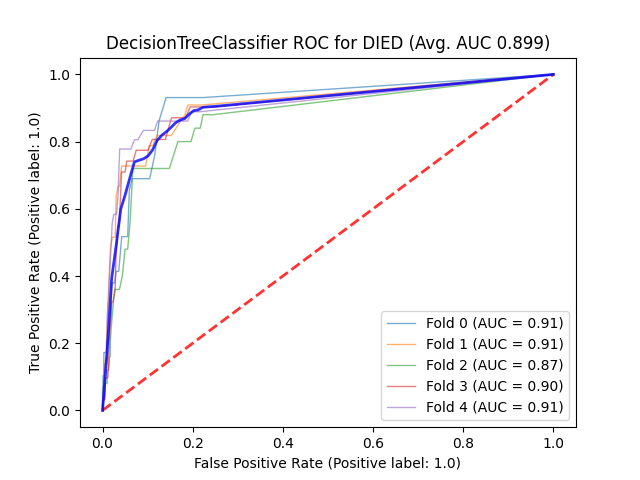
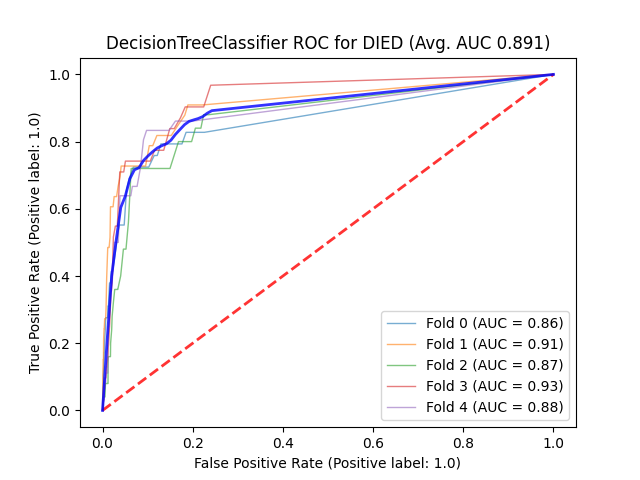
Use peripheral vascular disease as feature

diff --git a/preprocessing/parseCCI.py b/preprocessing/parseCCI.py
@@ -34,7 +34,6 @@ def _range_expander(unexpanded: list):
 def get_comorbidity_codes():
     dropped_categories = [
         'Myocardial infarction',
-        'Peripheral vascular disease',
         'Cerebrovascular disease'
     ]
 

diff --git a/results/README.md b/results/README.md
@@ -1,26 +1,18 @@
 # Results
 
-## Predicting DIED
+## Reveiver Operating Characteristic Curves
 
-### Decision Tree
-![ROC Curve](./DT_DIED.png)
+### Predicting DIED
 
-### Random Forest
-![ROC Curve](./RF_DIED.png)
+| Decision Tree      | Random Forest | Logistic Regression     |
+| :---        |    :----:   |          ---: |
+| ![ROC Curve](./DT_DIED.png)      | ![ROC Curve](./RF_DIED.png)       | ![ROC Curve](./LR_DIED.png)  |
 
-### Logistic Regression
-![ROC Curve](./LR_DIED.png)
+### Predicting LOS
 
-## Predicting LOS
-
-### Decision Tree
-![ROC Curve](./DT_LOS.png)
-
-### Random Forest
-![ROC Curve](./RF_LOS.png)
-
-### Logistic Regression
-![ROC Curve](./LR_LOS.png)
+| Decision Tree      | Random Forest | Logistic Regression     |
+| :---        |    :----:   |          ---: |
+| ![ROC Curve](./DT_LOS.png)      | ![ROC Curve](./RF_LOS.png)       | ![ROC Curve](./LR_LOS.png)  |
 
 
 
